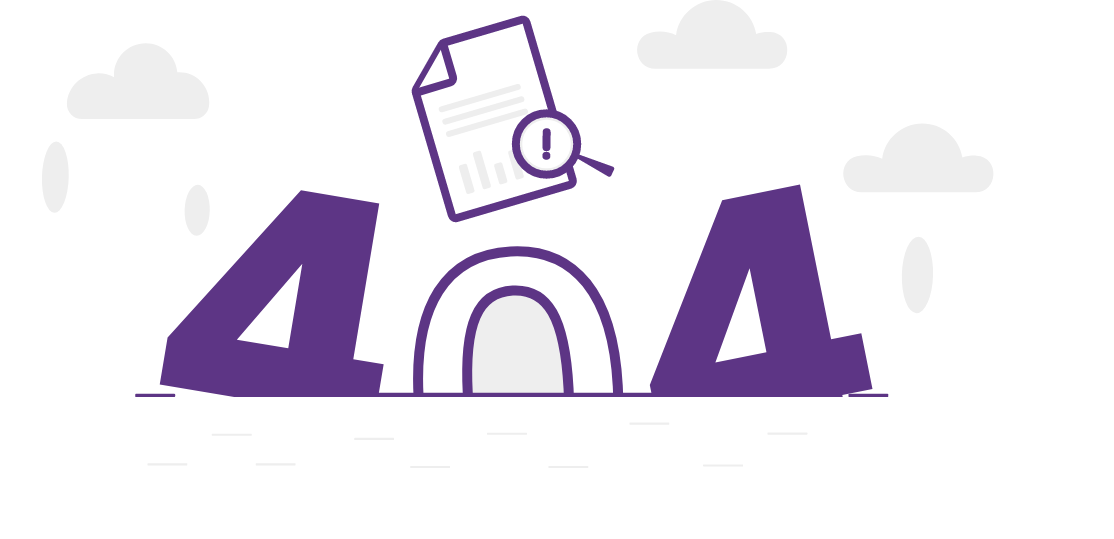
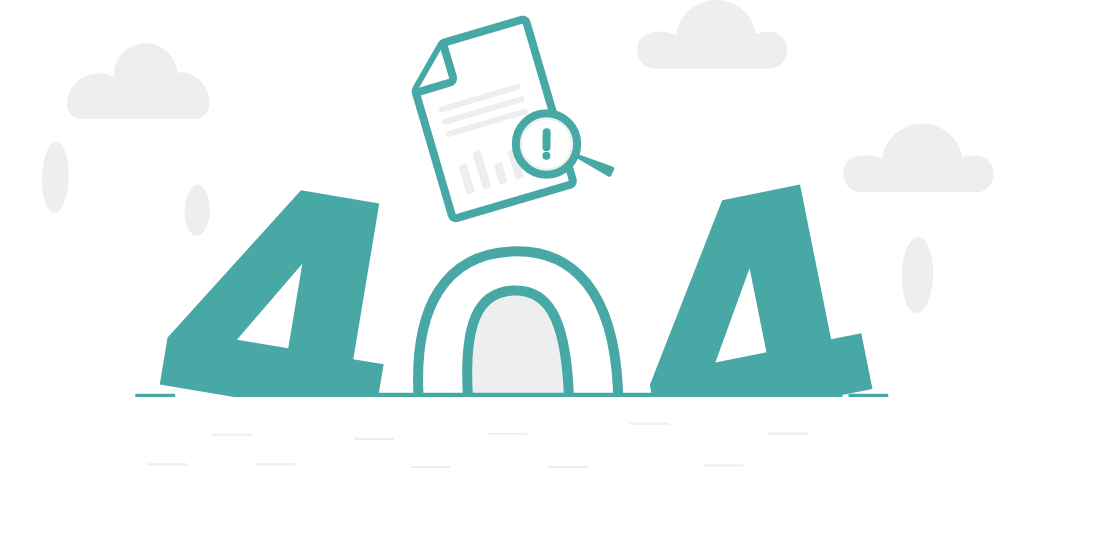
change colors

diff --git a/assets/css/style.css b/assets/css/style.css
@@ -1,15 +1,28 @@
+/*************************Varibels*********************/
+:root{
+  --mainColor:#48A8A6;
+  --subColor:#ef9e5c;
+  --mainfontColor:#103349;
+  --subFontColor:#4D565C;
+ --bgHover:#3C8482;
+}
+/*******************************************************/
 body {
     background-color:#fff;
     overflow-x: hidden;
+    color: var(--mainfontColor);
 }
 .scrolltop{
-  background-color:#462768;
+  background-color:var(--mainColor);
 }
 .scrolltop:hover{
-  background-color:#462768 !important;
+  background-color:var(--mainColor) !important;
 }
 #kt_content_container{
   padding-bottom: 50px;
+}
+.text-gray-900{
+  color: var(--mainfontColor);
 }
 /*******************authentication page edit Start*************************************/
 .h-130px{
@@ -85,7 +98,7 @@ h1.text-dark{
   #kt_sign_in_form .form-content .text-gray-500,
   .text-muted,
   .link-primary{
-    color: #0C1B32 !important;
+    color:var(    --mainfontColor)!important;
   }
   .link-primary:hover{
     color: #462768!important;
@@ -125,7 +138,7 @@ h1.text-dark{
   height: 40px !important;
 }
 h1.text-dark a{
-  color: #131313;
+  color:var(--mainfontColor);
 }
 .aside-user .symbol img{
   border-radius: 50%;
@@ -151,13 +164,14 @@ a.user-name{
 }
 
 .aside-menu .menu .menu-item .menu-link .menu-title{
-  color: #131313 !important;
+  color:var(--mainfontColor)!important;
+  font-weight: 600;
 }
 .aside-menu .menu .menu-item .menu-link .menu-icon .svg-icon:hover{
-  color:#131313
+  color:var(--mainfontColor);
 }
 .aside-menu .menu .menu-item .menu-link.active{
-  background-color: #5D3585;
+  background-color:var(--mainColor);
   color: #fff !important;
   /*border-right: 8px solid #3d8fb4 !important;*/
 }
@@ -167,8 +181,11 @@ a.user-name{
 .aside-menu .menu .menu-item .menu-link.active .menu-icon .svg-icon{
   color: #fff !important;
 }
+.aside-menu .menu .menu-item .menu-link .menu-icon .svg-icon svg {
+  color: var(--mainColor);
+}
 .aside-menu .menu .menu-item .menu-link:hover{
-  background-color: #5D3585 !important;
+  background-color: var(--mainColor) !important;
   color: #fff !important;
   /*border-right: 8px solid #3d8fb4 !important;*/
 }
@@ -185,7 +202,7 @@ a.user-name{
   position: relative;
 }
 .aside-menu .menu .menu-item .menu-link.new-link:hover{
-  background-color: #5D3585 !important;
+  background-color: var(--mainColor)!important;
   color: #fff !important;
   /*border-right: 8px solid #3d8fb4 !important;*/
 }
@@ -195,7 +212,7 @@ a.user-name{
 } 
 .aside-menu .menu .menu-item .menu-link.new-link .new-feature{
   display: inline-block;
-  background-color: #EC4321;
+  background-color:var( --subColor);
   color: #fff;
   border-radius: 26px;
   padding: 2px 10px;
@@ -217,6 +234,9 @@ a.user-name{
 .aside-menu .menu .menu-item .menu-link.interactive:hover{
   background-color:transparent !important;
   border-right: none!important;
+}
+.aside-user.help-center svg path{
+  fill:var(--mainColor);
 }
 /*******content ****/
 .content {
@@ -277,11 +297,15 @@ border:1px solid #371C52 !important;
 /*******************************************************add-role End********************/
 /**************************************content page Start********************************/
 #kt_body .error-btn{
-  color: #371C52 !important;
+  color: var(--bgHover) !important;
   background: #EEEEEE !important;
   padding: 15px 60px;
   font-weight: 600 !important;
   font-size: 16px;
+}
+#kt_body .error-btn:hover{
+  transform: scale(1.1);
+  transition: 0.7s ease-in-out;
 }
 /**************************************content page End**********************************/
 /*****************************************Add new User start*****************************/
@@ -295,14 +319,17 @@ border:1px solid #371C52 !important;
 }
 .new-user-form h3{
   font-size: 22px;
-  color: #222222;
+  color: var(--mainColor);
 }
 .new-user-form span.note{
-  color: #EC4321;
+  color: var(--subColor);
   font-size: 16px;
   display: block;
   padding-bottom: 20px;
   border-bottom: 1px solid #F2F2F2;
+}
+.required:after{
+  color: var(--subColor);
 }
 .new-user-form .add-user{
   margin-top: 20px;
@@ -320,28 +347,34 @@ border:1px solid #371C52 !important;
   border-radius: 5px !important;
 }
 .new-user-form .add-user .btn{
-  background-color: #ccc;
+  background-color: transparent;
+  border: 1px solid var(--mainColor) !important;
   border-radius: 5px;
   padding: 10px 30px;
   display: inline-block;
   margin: 10px 10px;
   border-bottom: none;
+  color: var(--mainfontColor);
 }
+
 .new-user-form .add-user .btn.save{
-  background-color: #371C52;
+  background-color: var(--mainColor);
   color: #fff;
 }
+.new-user-form .add-user .btn.save:hover{
+  background: var(--bgHover);
+}
 .new-user-form .add-user .btn.cancel{
-  border:1px solid #371C52 !important;
+  border:1px solid var(--mainColor) !important;
     background-color: #fff;
-    color: #371C52;
+    color: var(--mainColor);
   }
   .new-user-form .add-user .form-check{
     padding-left: 0;
   }
 
   .new-user-form .add-user .form-check-custom.form-check-danger .form-check-input:checked {
-    background-color: #371C52;
+    background-color: var(--mainColor);
 }
 .new-user-form .add-user .form-check-custom.form-check-danger span{
   font-size:16px !important;
@@ -424,7 +457,17 @@ border-radius: 50%;
 .card .card-body{
   margin-top: 15px;
 }
-
+/******************************Footer***********************/
+.menu-hover-primary .menu-item.hover:not(.here) > .menu-link:not(.disabled):not(.active):not(.here),
+ .menu-hover-primary .menu-item:not(.here) .menu-link:hover:not(.disabled):not(.active):not(.here){
+  color: var(--mainColor);
+  font: 600;
+}
+.menu-state-color .menu-item.hover:not(.here) > .menu-link:not(.disabled):not(.active):not(.here),
+.menu-state-color .menu-item:not(.here) .menu-link:hover:not(.disabled):not(.active):not(.here){
+  color: var(--mainColor);
+}
+/******************************Footer*************************/
 
 
 
